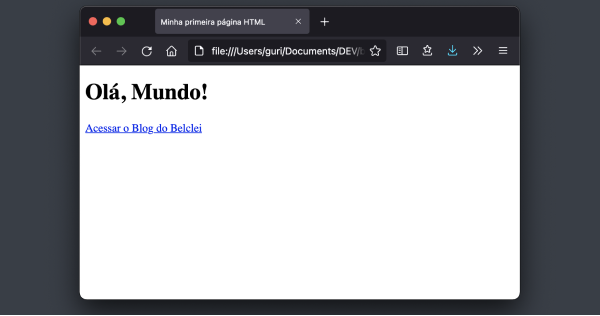
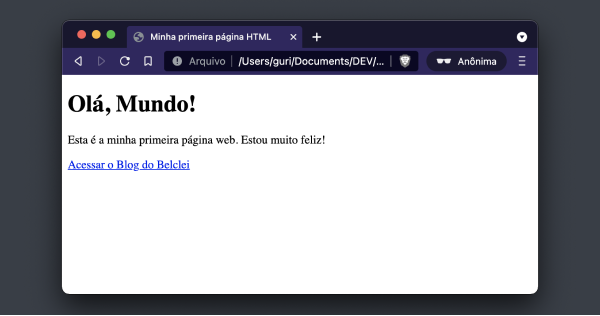
md

Changed region(s): [[0.09, 0.0, 0.9, 0.9684]]

diff --git a/posts/003-HTML.md b/posts/003-HTML.md
@@ -2,8 +2,8 @@
 slug: 'html'
 title: 'Seus primeiros conceitos sobre HTML'
 subtitle: 'O segredo para uma evolução rápida e consistente em desenvolvimento de software é conhecer bem os conceitos elementares das tecnologias que estiver utilizando. De vagar, vá aumentando a complexidade e agregando novos conceitos, sem deixar lacunas, ou pular etapas.'
-image: '/posts/002.png'
-createdAt: '2021-12-10T12:35:07.322-03:00'
+image: '/posts/003.png'
+createdAt: '2022-01-21T06:00:00.300-03:00'
 ---
 
 A intenção deste post é ser bastante prático, para que aprendas enquanto faz suas primeiras páginas web. Se você já conhece, acompanhe até o final, pois pode aprender coisa nova.
@@ -37,13 +37,15 @@ Então, a anatomia de uma tag HTML é:
 - Conteúdo, ou filho: `1.0 Mitocondrias`
 - Tag de fechamento: `</titulo>`
 
-Quando uma tag não possui conteúdo filho, como por exemplo a tag que indica quebra de linha, podemos usar uma maneira simplificada de representação. Neste caso não há necessidade de uma tag de abertura e outra de fechamento, basta incluir uma barra ao final da tag: `<QuebraDeLinha />`.
+Quando uma tag não possui conteúdo filho, como por exemplo a tag que indica quebra de linha, podemos usar uma maneira simplificada de representação. Neste caso a tag fecha nela mesma, ou seja, não há necessidade de uma tag de abertura e outra de fechamento, basta incluir uma barra ao final da tag: `<QuebraDeLinha />`.
 
 Pronto, agora você já foi apresentado às tags, agora vamos passar a utilizar tags reais, que são compreendidas pelos navegadores. Não achou que elas eram escritas em português, né?
 
 Ah, no final do artigo eu te mostro como o texto das mitocôndrias seria representado corretamente em uma página html.
 
 # Mão na massa
+
+## Intuindo o significado das tags
 
 No último post eu te convidei a tentar relacionar as partes de uma página web com seu código HTML. Esta era a página web:
 
@@ -79,9 +81,23 @@ Podemos perceber que "Minha primeira página HTML" é o título da página. É p
 
 Agora sobre os estas 3 linhas onde estão presentes os textos que vemos na página, porquê ao texto "Olá, Mundo!" é um pouco maior do que os outros? Porque a tag `h1` indica que ele é um título do texto. Agora vamos falar sobre a tag `p`, que é uma abreviação de parágrafo. É nela que é colocado o texto normal de uma página.
 
-Chegamos ao últimos dos textos destacados: "Acessar o Blog do Belclei". Este é um texto especial, por isso o browser o destacou em azul, e por isso quando o mouse está sobre ele, o ponteiro muda para uma mãozinha. Este texto é um link, e o navegador sabe disso porque está dentro da tag `a`, que é a abreviação de âncora. A ideia é que, este texto está ancorado em um conteúdo presente em outro lugar. E que lugar seria esse? o Blog do Belclei. E o navegador sabe que ao clicar neste link você deve ser redirecionado para o blog do Belclei graças ao valor que você informou no atributo `href`, ou seja, http://www.belclei.dev.br.
+Chegamos ao último dos textos destacados: "Acessar o Blog do Belclei". Este é um texto especial, por isso o browser o destacou em azul, e por isso quando o mouse está sobre ele, o ponteiro muda para uma mãozinha. Este texto é um link, e o navegador sabe disso porque está dentro da tag `a`, que é a abreviação de âncora. A ideia é que, este texto está ancorado em um conteúdo presente em outro lugar. E que lugar seria esse? o Blog do Belclei. E o navegador sabe que ao clicar neste link você deve ser redirecionado para o blog do Belclei graças ao valor que você informou no atributo `href`, ou seja, http://www.belclei.dev.br.
 
-Agora acho que você já está pegando o jeito. Vamos para mais um exemplo?
+Vamos ver agora para que são usadas as outras tags.
+
+O `doctype`, na primeira linha, indica qual das versões do HTML será usado para interpretar as tags. Escrito desta forma `<!DOCTYPE html>` indica a última versão, o HTML5.
+
+Todo o HTML que escrevemos deve necessariamente ser filho de uma tag `<html>`. E neste caso utilizamos o atributo "lang" para indicar que os textos estão escritos em Português (BR).
+
+Os dois elementos filhos de `<html>` são `<head>` e `<body>`. O segundo você já viu, diz respeito ao conteúdo em sí. Na tag `<head>` é onde são definidas algumas informações sobre o documento, a principal é a `<title>`. Neste lugar também é usada a tag `<meta>`, que é utilizada para descrever os metadados de uma página. Geralmente são utilizadas várias vezes em uma página, cada uma descrevendo um atributo diferente. Neste nosso exercício foi indicado que a codificação dos caracteres está em "UTF-8". Te explico melhor algum dia desses. Por hora, segue usando assim. Outros atributos da tag meta também podem indicar para o google informações que serão exibidas quando alguém pesquisar pelo teu site, por exemplo. Este também é um assunto para um próximo artigo.
+
+Agora acho que você já está entendendo como funciona esse negócio de tags. Mas você não precisa acreditar em mim, te dizendo que o resultado daquele html vai ser a página que te mostrei. Crie aí no teu computador um arquivo chamado `primeiro.html` e escreva o código html que te mostrei. Para isso você pode utilizar o bloco de notas mesmo. Em seguida, abra este arquivo utilizando qualquer navegador à sua escolha (Edge, Chrome, Safari, Firefox, etc).
+
+**Parabéns!** Você criou sua primeira página HTML. 👏👏👏
+
+Agora vem a segunda. Vamos para mais um exemplo?
+
+## Hierarquia de cabeçalhos
 
 Existem 6 tags para indicar títulos (h1, h2, h3, h4, h5, e h6). O H significa heading (cabeçalho), e os números indicam o nível hierárquico dos mesmos. Veja um exemplo utilizando cabeçalhos para você criar aí no seu computador e ver como fica:
 
@@ -98,7 +114,7 @@ Existem 6 tags para indicar títulos (h1, h2, h3, h4, h5, e h6). O H significa h
 
     <h2>Ebulição</h2>
     <p>Muito utilizado na Europa</p>
-
+    -
     <h3>Café turco</h3>
     <p>Se você é um amante de café bem forte e escuro, então o café turco é a pedida ideal.</p>
     <h3>Método do Cowboy</h3>
@@ -133,6 +149,68 @@ Existem 6 tags para indicar títulos (h1, h2, h3, h4, h5, e h6). O H significa h
 Embora até funcione, você não deveria deixar um texto "órfão", ou seja, sendo "irmão" de outros elementos em tags html. Neste exemplo, a explicação sobre a Prensa Francesa deveria estar dentro de uma tag. Você notou que tinha algo estranho? A `p` provavelmente seria a mais adequada. Quando tratarmos de CSS você vai entender um dos motivos pelos quais é importante manter os textos dentro das tags corretamente.
 
 As tags HTML possuem inúmeros atributos, mas você não precisa se preocupar em conhecê-los todos agora. A maioria não é obrigatória. Quando ficar em dúvida e precisar consultar informações sobre tags, seus usos e atributos, basta pesquisar por elas nos sites que eu vou deixar aqui nas _referências_.
+
+## Voltando às mitocondrias
+
+Conforme prometido, segue o html referente ao texto apresentado sobre as mitocôndrias:
+
+Texto mitocondrias
+
+```html
+<!DOCTYPE html>
+<html lang="pt_BR">
+  <head>
+    <meta charset="UTF-8" />
+    <title>Mitocôndrias</title>
+  </head>
+  <body>
+    <h1>1.0 Mitocôndrias</h1>
+    <p>Aqui eu faço uma abertura do conteúdo que está por vir.</p>
+    <h2>1.1 Tipos de Mitocôndrias</h2>
+    <p>Aqui eu começo a falar sobre os tipos de mitocôndrias.</p>
+    <h2>1.2 Porque Mitocôndrias são importantes?</h2>
+    <p>
+      Conforme disse o professor Entendido Da Silva, no artigo
+      <a href="http://mitocondrias.com.br">"A importância das mitocôndrias"</a>:
+    </p>
+    <blockquote cite="http://mitocondrias.com.br">
+      <p>"As mitocôndrias são importantes. Elas são <em>MITO</em>.".</p>
+    </blockquote>
+  </body>
+</html>
+```
+
+Tags novas:
+
+- `<bloquote>` - Indica uma citação. O atributo cite é só para indicar de onde veio a citação.
+- `<em>` - Indica uma _ênfase_ que deve ser aplicada no texto.
+
+# Comentários
+
+Com o conteúdo que vimos até aqui você já tem bastante condições de ir testando por conta própria. Você pode criar em HTML alguns artigos, trabalhos escolares, receitas gastronômicas, currículos, enfim... o céu é o limite. Crie-os e guarde com carinho em alguma pasta do seu computador. Cada vez que eu trouxer aqui algum conteúdo novo, você pode revisitá-los e incrementá-los. Vai ajudar muito teu progresso nesse mundo da web.
+
+E se nesse processo você tiver alguma dúvida, basta vir aqui e deixá-la nos comentários. Eu ficarei muito feliz em ajudar respondendo teus questionamentos.
+
+Isso me fez lembrar de outro recurso presente no HTML. Imagine que você queira deixar alguma anotação no seu arquivo HTML para facilitar o teu entendimento quando ler o código. Você não quer que esta anotação apareça na página, é só uma anotaçãozinha para tua referência no código. Te apresento os _comentários_ no HTML.
+
+Neste exemplo você deixou uma explicação sobre a tag `<bloquote>`para não esquecer seu significado. Basta deixar o comentário entre `<!--`e `-->`que o navegador simplesmente irá ignorá-lo quando for renderizar o site. Ficaria assim:
+
+```html
+    <p>
+      Conforme disse o professor Entendido Da Silva, no artigo
+      <a href="http://mitocondrias.com.br">"A importância das mitocôndrias"</a>:
+    </p>
+    <!-- A tag bloquote é usada para indicar que estou usando o texto de outra pessoa -->
+    <blockquote cite="http://mitocondrias.com.br">
+      <p>"As mitocôndrias são importantes. Elas são <em>MITO</em>.".</p>
+    </blockquote>
+  </body>
+```
+
+# No próximo artigo
+
+No próximo artigo vamos acelerar um pouco as coisas. Vou te trazer uma lista bastante completa para referência sobre tags HTML. Salve nos seus favoritos para te ajudar a consultá-los.
+Até a próxima. 👨🏻💻
 
 # Referencias
 

diff --git a/posts/001-Internet.md b/posts/001-Internet.md
@@ -4,7 +4,7 @@ title: 'Internet'
 subtitle: 'Você ainda consegue imaginar a tua vida sem internet? Ela não chegou ao nosso acesso há muito tempo.
 Mesmo assim, teve gente que passou por sérios problemas outro dia que aplicativos de mensagens instantâneas passaram por instabilidades. Pessoas simplesmente esqueceram que poderiam se comunicar por simples ligações telefônicas.'
 image: '/posts/001.png'
-createdAt: '2021-12-04T06:03:08.300-03:00'
+createdAt: '2022-01-07T06:00:00.300-03:00'
 ---
 
 ![Pessoas utilizam celular apenas para usar internet](/posts/001/10.png)
@@ -33,7 +33,7 @@ Na cidade de Los Angeles, Leonard Kleinrock, e Charlie Kline, professor e aluno 
 
 Você deve ter estudado isso também. A Guerra fria não foi propriamente marcada por conflitos bélicos diretos entre União Soviética e Estados Unidos. Mas eles mediam forças sempre que havia uma oportunidade, seja em competições esportivas, campanhas midiáticas, e até em influência sobre países menores fazendo com que estes sim entrassem em confronto. Naquela época o mundo inteiro vivia em constante tensão com medo do fim do mundo que certamente viria junto com uma guerra nuclear. A guerra fria só foi acabar quase em 1990, e até esse ponto, sempre que tocava a vinheta do plantão globo tinha gente que pensava: 'Ai me Deus, é agora que o mundo acaba'.
 
-![Plantão GLobo](/posts/001/30.png)
+![Plantão Globo](/posts/001/30.png)
 
 A rivalidade se estendia também no campo tecnológico. Os soviéticos lançaram ao espaço o primeiro satélite, o primeiro ser vivo (a cadelinha Laika), o primeiro homem, e a primeira mulher. Aí os Estados Unidos responderam enviando o homem à Lua. Enfim, nessa disputa só o medo era maior do que as voluptuosas quantidades de dinheiro que era investido.
 

diff --git a/posts/002-Web.md b/posts/002-Web.md
@@ -1,10 +1,10 @@
 ---
 slug: 'web'
-title: 'Web'
+title: 'WEB, que é diferente de internet'
 subtitle: 'Você sabia que milhares de pessoas no mundo acreditam que a Internet é o Facebook?
 Pelo menos foi isso que mostrou o relatório da saúde da internet, de 2017, criado pela Mozilla. Só no Brasil, 55% dos entrevistados pensavam assim.'
 image: '/posts/002.png'
-createdAt: '2021-12-10T12:35:07.322-03:00'
+createdAt: '2022-01-14T06:00:00.300-03:00'
 ---
 
 Você já sabe, eu te contei no post anterior, a internet é a rede que possibilita a comunicação de computadores de todo o mundo.

diff --git a/posts/000-Hello-World.md b/posts/000-Hello-World.md
@@ -2,7 +2,7 @@
 slug: 'hello-world'
 title: 'Hello World 🥳'
 subtitle: 'Reza a lenda que sempre que um programador começa a usar uma nova tecnologia, para ter sorte em sua nova empreitada, deve iniciar com "Hello World". Eu é que não ia ser bobo de arriscar logo agora com meu blog, né? Deixa pro próximo framework javascript que eu for testar.'
-createdAt: '2021-12-04T06:00:00.300-03:00'
+createdAt: '2022-01-07T06:00:00.300-03:00'
 image: '/posts/000.png'
 ---
 

diff --git a/posts/004-Dominio.md b/posts/004-Dominio.md
@@ -4,7 +4,7 @@ title: 'Dominio'
 subtitle: 'Você sabia que milhares de pessoas no mundo acreditam que a _Internet_ **é** o _Facebook_?
 Pelo menos foi isso que mostrou o relatório da saúde da internet, de 2017, criado pela Mozilla. Só no Brasil, 55% dos entrevistados pensavam assim.'
 image: '/posts/000/helloworld.jpg'
-createdAt: '2022-11-21T05:35:07.322Z'
+createdAt: '2022-01-28T06:00:00.300-03:00'
 ---
 
 Oi, tudo bem?
